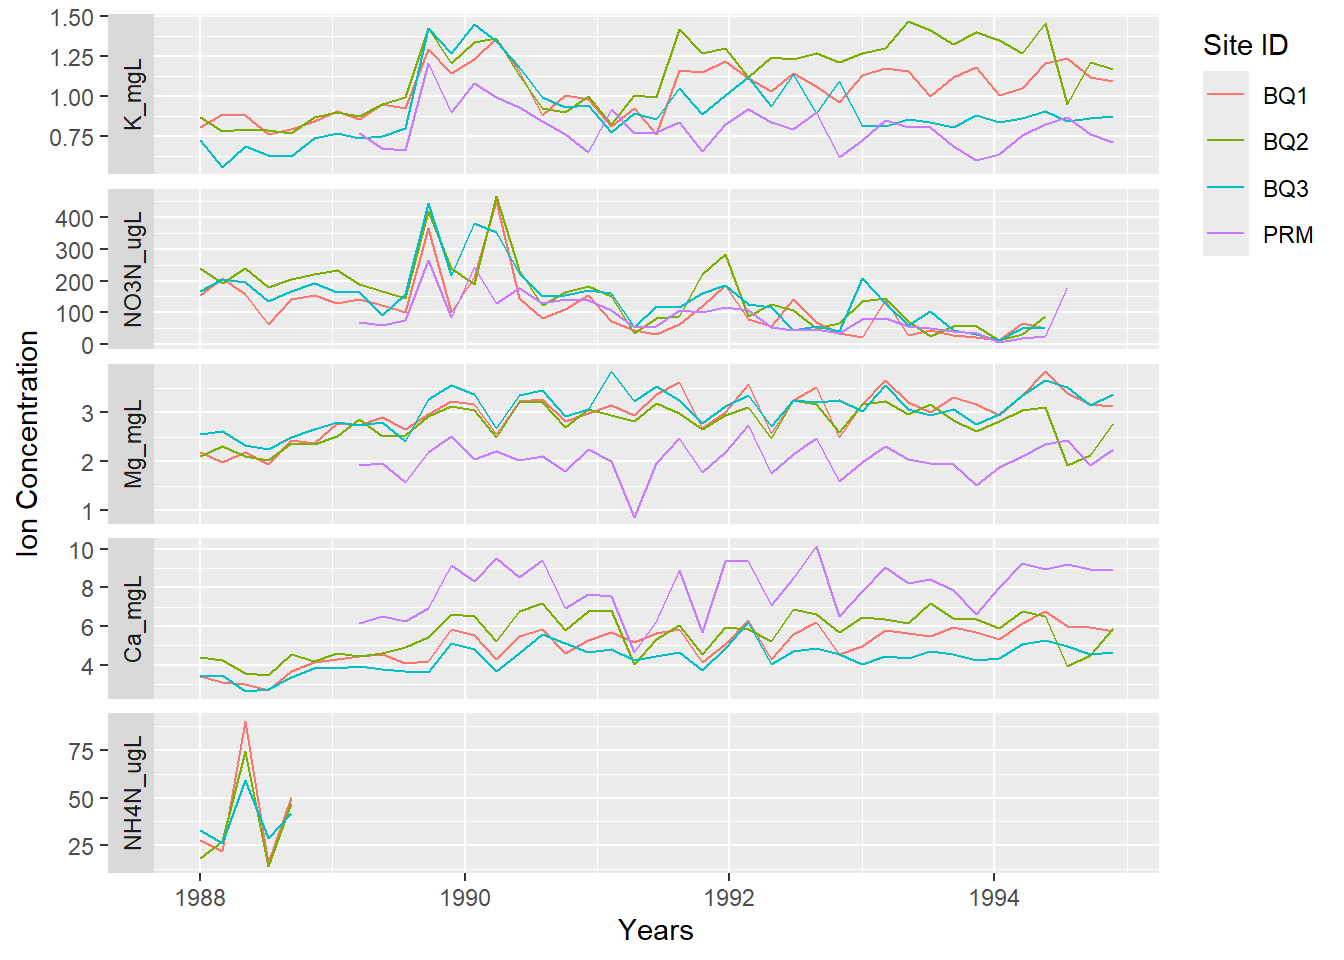
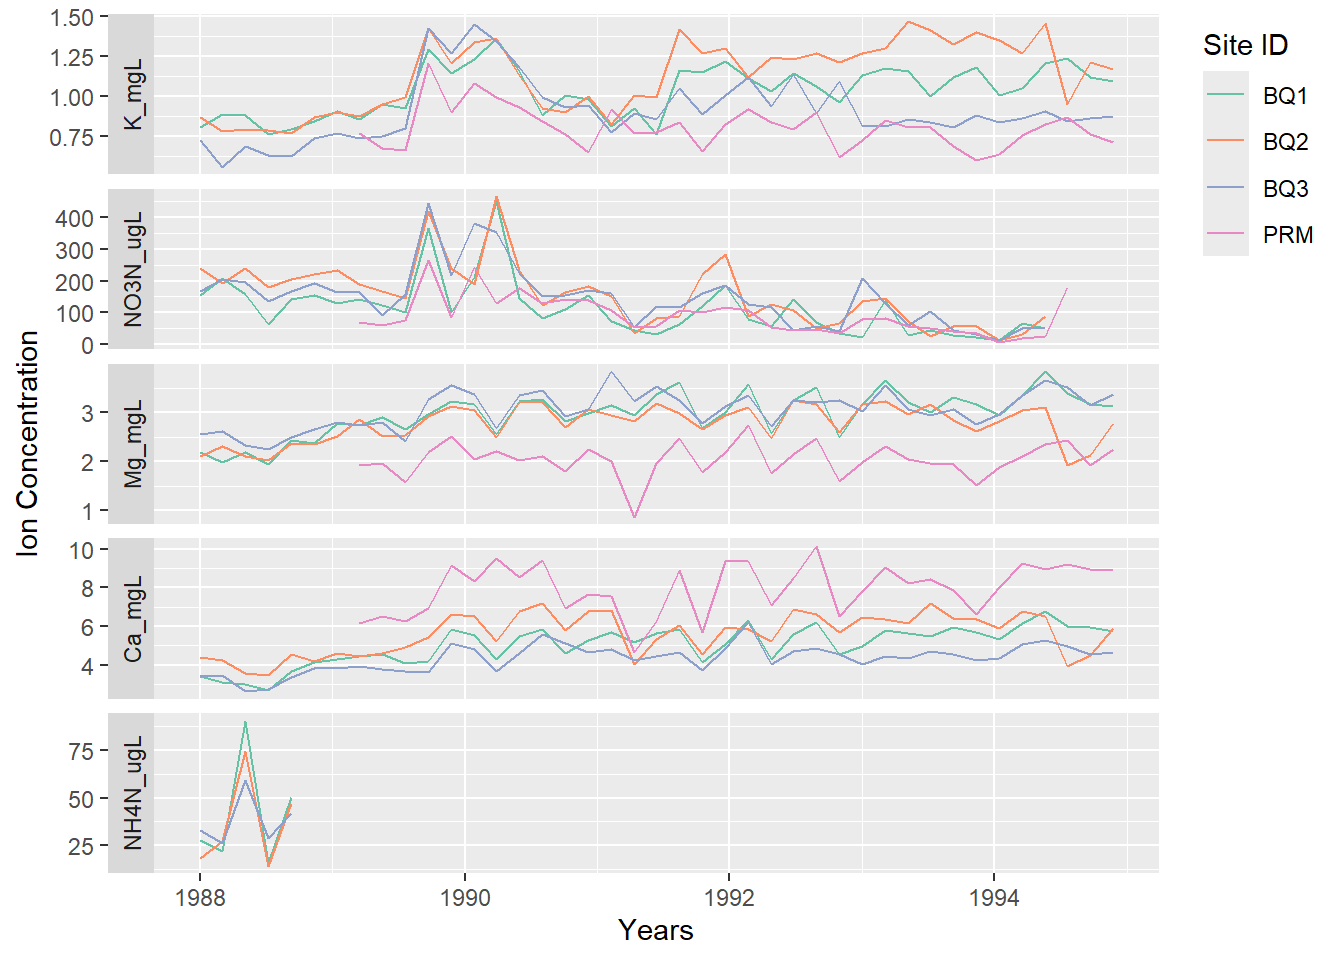
this commit addresses issue 5, quarto figure needs to be reasonable approximation of the original. See #5

diff --git a/docs/paper.html b/docs/paper.html
@@ -90,7 +90,7 @@ pre > code.sourceCode > span > a:first-child::before { text-decoration: underlin
 <section id="background" class="level2">
 <h2 class="anchored" data-anchor-id="background">Background</h2>
 <p>The goal of this analysis is to approximate Figure 3 from <a href="https://github.com/pr-scilla/pap214final/blob/main/README.md">Schaefer et al.&nbsp;(2000)</a>, which shows stream chemistry changes at four Puerto Rican stream sample sites pre and post Hurricane Hugo.</p>
-<p>Hurricane Hugo made landfall on Puerto Rico in late September of 1989. This analysis shows 9 week moving average concentrations of potassium (K_mgL), nitrate-N (NO3N_ugL), magnesium (Mg_mgL), calcium (Ca_mgL) and ammonium-N (NH4N_ugL) between January 1, 1988 and December 31, 1994 at the following sample sites:</p>
+<p>Hurricane Hugo made landfall on Puerto Rico in late September of 1989. This outputs of this analysis show 9 week moving average concentrations of potassium (K_mgL), nitrate-N (NO3N_ugL), magnesium (Mg_mgL), calcium (Ca_mgL) and ammonium-N (NH4N_ugL) between January 1, 1988 and December 31, 1994 at the following sample sites:</p>
 <ul>
 <li><p>Bisley Quebrada Cuenca 1 (BQ1)</p></li>
 <li><p>Bisley Quebrada Cuenca 2 (BQ2)</p></li>
@@ -155,18 +155,19 @@ date (1): window_start
 <span id="cb5-10"><a href="#cb5-10" aria-hidden="true" tabindex="-1"></a>  <span class="fu">geom_line</span>() <span class="sc">+</span></span>
 <span id="cb5-11"><a href="#cb5-11" aria-hidden="true" tabindex="-1"></a>  <span class="fu">labs</span>(<span class="at">x =</span> <span class="st">"Years"</span>, <span class="at">y =</span> <span class="st">"Ion Concentration"</span>, <span class="at">color =</span> <span class="st">"Site ID"</span>) <span class="sc">+</span></span>
 <span id="cb5-12"><a href="#cb5-12" aria-hidden="true" tabindex="-1"></a>  <span class="fu">theme</span>(<span class="at">legend.justification =</span> <span class="fu">c</span>(<span class="st">"right"</span>, <span class="st">"top"</span>)) <span class="sc">+</span></span>
-<span id="cb5-13"><a href="#cb5-13" aria-hidden="true" tabindex="-1"></a>  <span class="fu">facet_grid</span>(</span>
-<span id="cb5-14"><a href="#cb5-14" aria-hidden="true" tabindex="-1"></a>    <span class="fu">vars</span>(<span class="fu">fct_relevel</span>(</span>
-<span id="cb5-15"><a href="#cb5-15" aria-hidden="true" tabindex="-1"></a>      <span class="fu">as_factor</span>(Figure_3_Reproduction<span class="sc">$</span>ion),</span>
-<span id="cb5-16"><a href="#cb5-16" aria-hidden="true" tabindex="-1"></a>      <span class="st">"K_mgL"</span>,</span>
-<span id="cb5-17"><a href="#cb5-17" aria-hidden="true" tabindex="-1"></a>      <span class="st">"NO3N_ugL"</span>,</span>
-<span id="cb5-18"><a href="#cb5-18" aria-hidden="true" tabindex="-1"></a>      <span class="st">"Mg_mgL"</span>,</span>
-<span id="cb5-19"><a href="#cb5-19" aria-hidden="true" tabindex="-1"></a>      <span class="st">"Ca_mgL"</span>,</span>
-<span id="cb5-20"><a href="#cb5-20" aria-hidden="true" tabindex="-1"></a>      <span class="st">"NH4N_ugL"</span> <span class="co"># Reorganize ions to display graphs in same order as Figure 3</span></span>
-<span id="cb5-21"><a href="#cb5-21" aria-hidden="true" tabindex="-1"></a>    )),</span>
-<span id="cb5-22"><a href="#cb5-22" aria-hidden="true" tabindex="-1"></a>    <span class="at">scales =</span> <span class="st">"free"</span>,</span>
-<span id="cb5-23"><a href="#cb5-23" aria-hidden="true" tabindex="-1"></a>    <span class="at">switch =</span> <span class="st">"y"</span></span>
-<span id="cb5-24"><a href="#cb5-24" aria-hidden="true" tabindex="-1"></a>  )</span></code></pre></div><button title="Copy to Clipboard" class="code-copy-button"><i class="bi"></i></button></div>
+<span id="cb5-13"><a href="#cb5-13" aria-hidden="true" tabindex="-1"></a>  <span class="fu">scale_color_discrete</span>(<span class="at">palette =</span> <span class="st">"Set2"</span>) <span class="sc">+</span></span>
+<span id="cb5-14"><a href="#cb5-14" aria-hidden="true" tabindex="-1"></a>  <span class="fu">facet_grid</span>(</span>
+<span id="cb5-15"><a href="#cb5-15" aria-hidden="true" tabindex="-1"></a>    <span class="fu">vars</span>(<span class="fu">fct_relevel</span>(</span>
+<span id="cb5-16"><a href="#cb5-16" aria-hidden="true" tabindex="-1"></a>      <span class="fu">as_factor</span>(Figure_3_Reproduction<span class="sc">$</span>ion),</span>
+<span id="cb5-17"><a href="#cb5-17" aria-hidden="true" tabindex="-1"></a>      <span class="st">"K_mgL"</span>,</span>
+<span id="cb5-18"><a href="#cb5-18" aria-hidden="true" tabindex="-1"></a>      <span class="st">"NO3N_ugL"</span>,</span>
+<span id="cb5-19"><a href="#cb5-19" aria-hidden="true" tabindex="-1"></a>      <span class="st">"Mg_mgL"</span>,</span>
+<span id="cb5-20"><a href="#cb5-20" aria-hidden="true" tabindex="-1"></a>      <span class="st">"Ca_mgL"</span>,</span>
+<span id="cb5-21"><a href="#cb5-21" aria-hidden="true" tabindex="-1"></a>      <span class="st">"NH4N_ugL"</span></span>
+<span id="cb5-22"><a href="#cb5-22" aria-hidden="true" tabindex="-1"></a>    )),</span>
+<span id="cb5-23"><a href="#cb5-23" aria-hidden="true" tabindex="-1"></a>    <span class="at">scales =</span> <span class="st">"free"</span>,</span>
+<span id="cb5-24"><a href="#cb5-24" aria-hidden="true" tabindex="-1"></a>    <span class="at">switch =</span> <span class="st">"y"</span></span>
+<span id="cb5-25"><a href="#cb5-25" aria-hidden="true" tabindex="-1"></a>  )</span></code></pre></div><button title="Copy to Clipboard" class="code-copy-button"><i class="bi"></i></button></div>
 <div class="cell-output cell-output-stderr">
 <pre><code>Warning: Removed 183 rows containing missing values or values outside the scale range
 (`geom_line()`).</code></pre>
